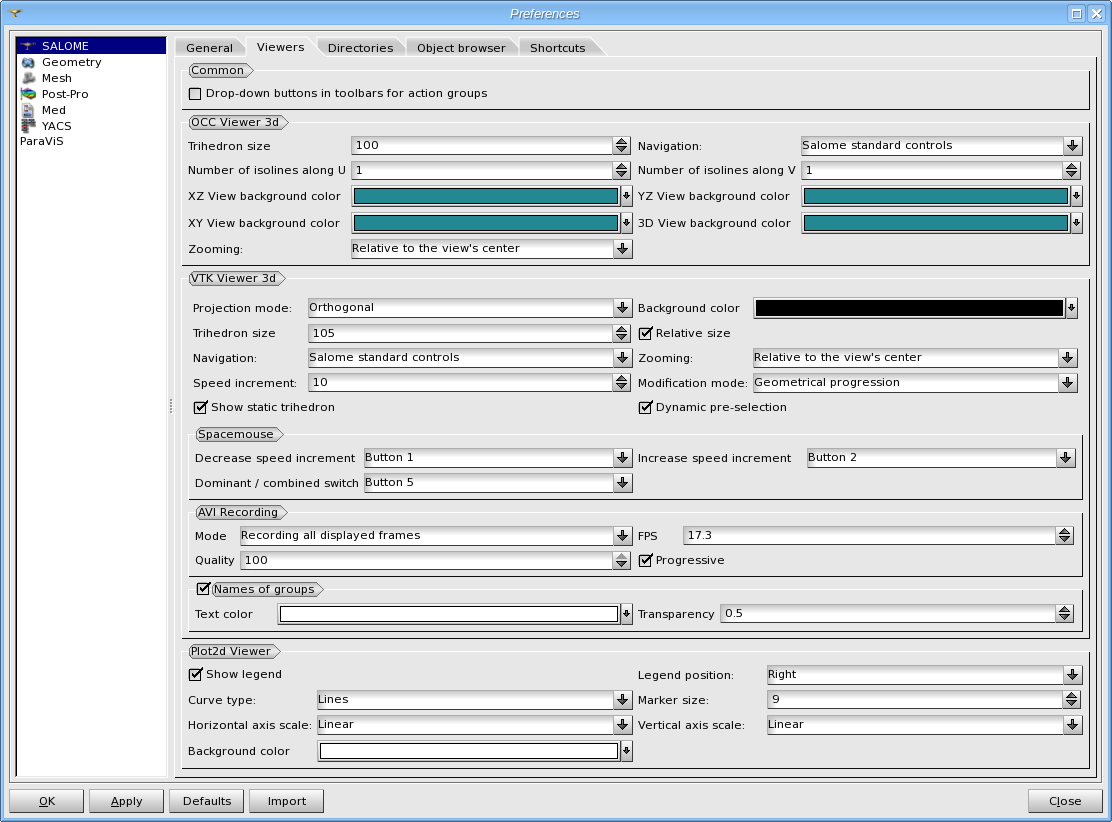
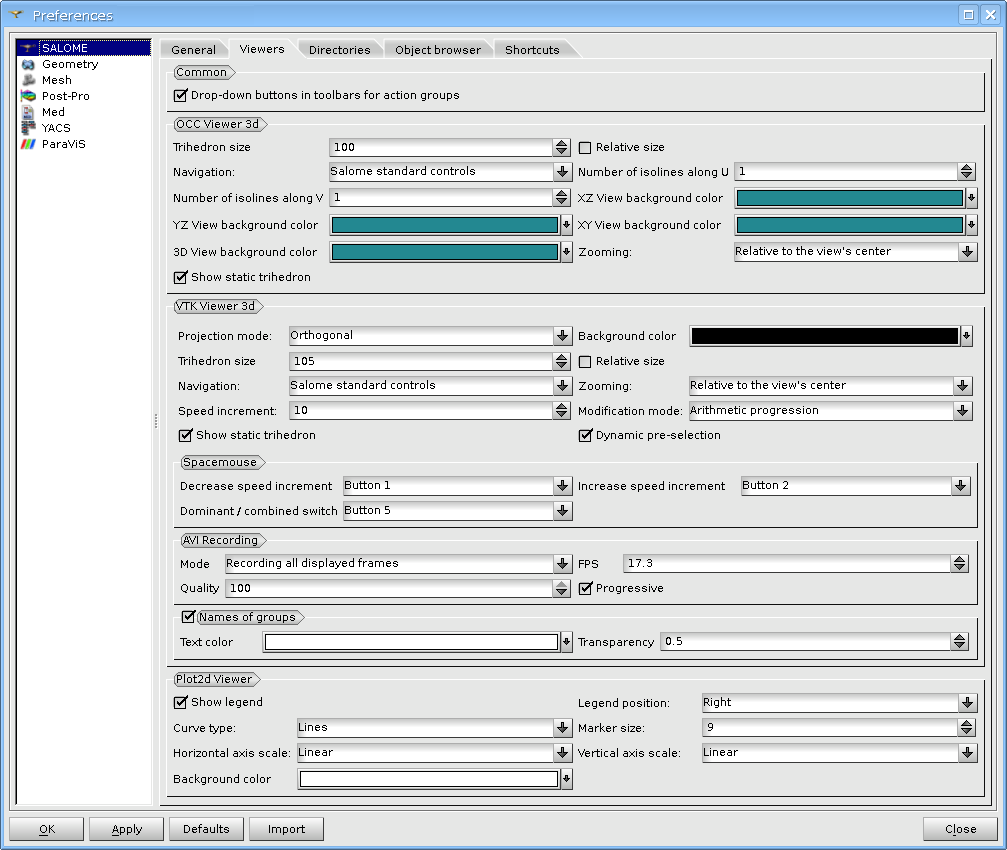
Implementation of the "21317: EDF 1614 ALL: Trihedron size preference" issue.

Changed region(s): [[0.0, 0.0, 1.0, 1.0]]

diff --git a/src/OCCViewer/OCCViewer_ViewModel.h b/src/OCCViewer/OCCViewer_ViewModel.h
@@ -55,7 +55,7 @@ class OCCVIEWER_EXPORT OCCViewer_Viewer: public SUIT_ViewModel
 public:
   static QString Type() { return "OCCViewer"; }
 
-  OCCViewer_Viewer( bool DisplayTrihedron = true, bool DisplayStaticTrihedron = true );
+  OCCViewer_Viewer( bool DisplayTrihedron = true);
   virtual ~OCCViewer_Viewer();
 
   void update();
@@ -88,7 +88,15 @@ public:
   virtual void                    setTrihedronShown( const bool );
 
   double                          trihedronSize() const;
-  virtual void                    setTrihedronSize( const double );
+  virtual void                    setTrihedronSize( const double , bool isRelative = true);
+  
+  bool                            trihedronRelative() const {return myIsRelative; }
+
+  // a utility function, used by SALOME_View_s methods
+  bool                            computeTrihedronSize( double& theNewSize, double& theSize );
+
+  void                            updateTrihedron();
+  
 
   virtual OCCViewer_ViewWindow*   createSubWindow();
 
@@ -111,7 +119,9 @@ public:
   bool                            isMultiSelectionEnabled() const { return myMultiSelectionEnabled; }
 
   int                             getSelectionCount() const { return (!myAISContext.IsNull())? myAISContext->NbSelected():0; }
+
   bool                            isStaticTrihedronDisplayed() { return myShowStaticTrihedron; }
+  void                            setStaticTrihedronDisplayed(const bool on);
 
   /* Selection management */
   bool    highlight( const Handle(AIS_InteractiveObject)&, bool, bool=true );
@@ -157,11 +167,14 @@ private:
 
   bool                            mySelectionEnabled;
   bool                            myMultiSelectionEnabled;
+  bool                            myIsRelative;
 
   //QColor                          myBgColor;
   QPoint                          myStartPnt, myEndPnt;
 
   bool                            myShowStaticTrihedron;
+
+  double                          myTrihedronSize;
 
   QVector<QColor>                 myColors;
 };

diff --git a/src/SOCC/SOCC_ViewModel.h b/src/SOCC/SOCC_ViewModel.h
@@ -67,9 +67,6 @@ public:
   virtual void                GetVisible( SALOME_ListIO& );
   virtual void                Repaint();
 
-  // a utility function, used by SALOME_View_s methods
-  bool                        getTrihedronSize( double& theNewSize, double& theSize );
-
   //a map to store AIS objects associated to a SALOME entry
   std::map< std::string , std::vector<Handle(AIS_InteractiveObject)> > entry2aisobjects;
 };

diff --git a/src/OCCViewer/OCCViewer_ViewPort3d.h b/src/OCCViewer/OCCViewer_ViewPort3d.h
@@ -60,6 +60,8 @@ public:
   virtual QString       backgroundImageFilename() const;
   virtual void          setBackgroundImage( const QString& fileName , const Aspect_FillMethod& theFillMethod);
 
+  virtual void          updateStaticTriedronVisibility();
+
 //   void         setActive( V3d_TypeOfView );
   virtual bool syncronize( const OCCViewer_ViewPort3d* );
 
